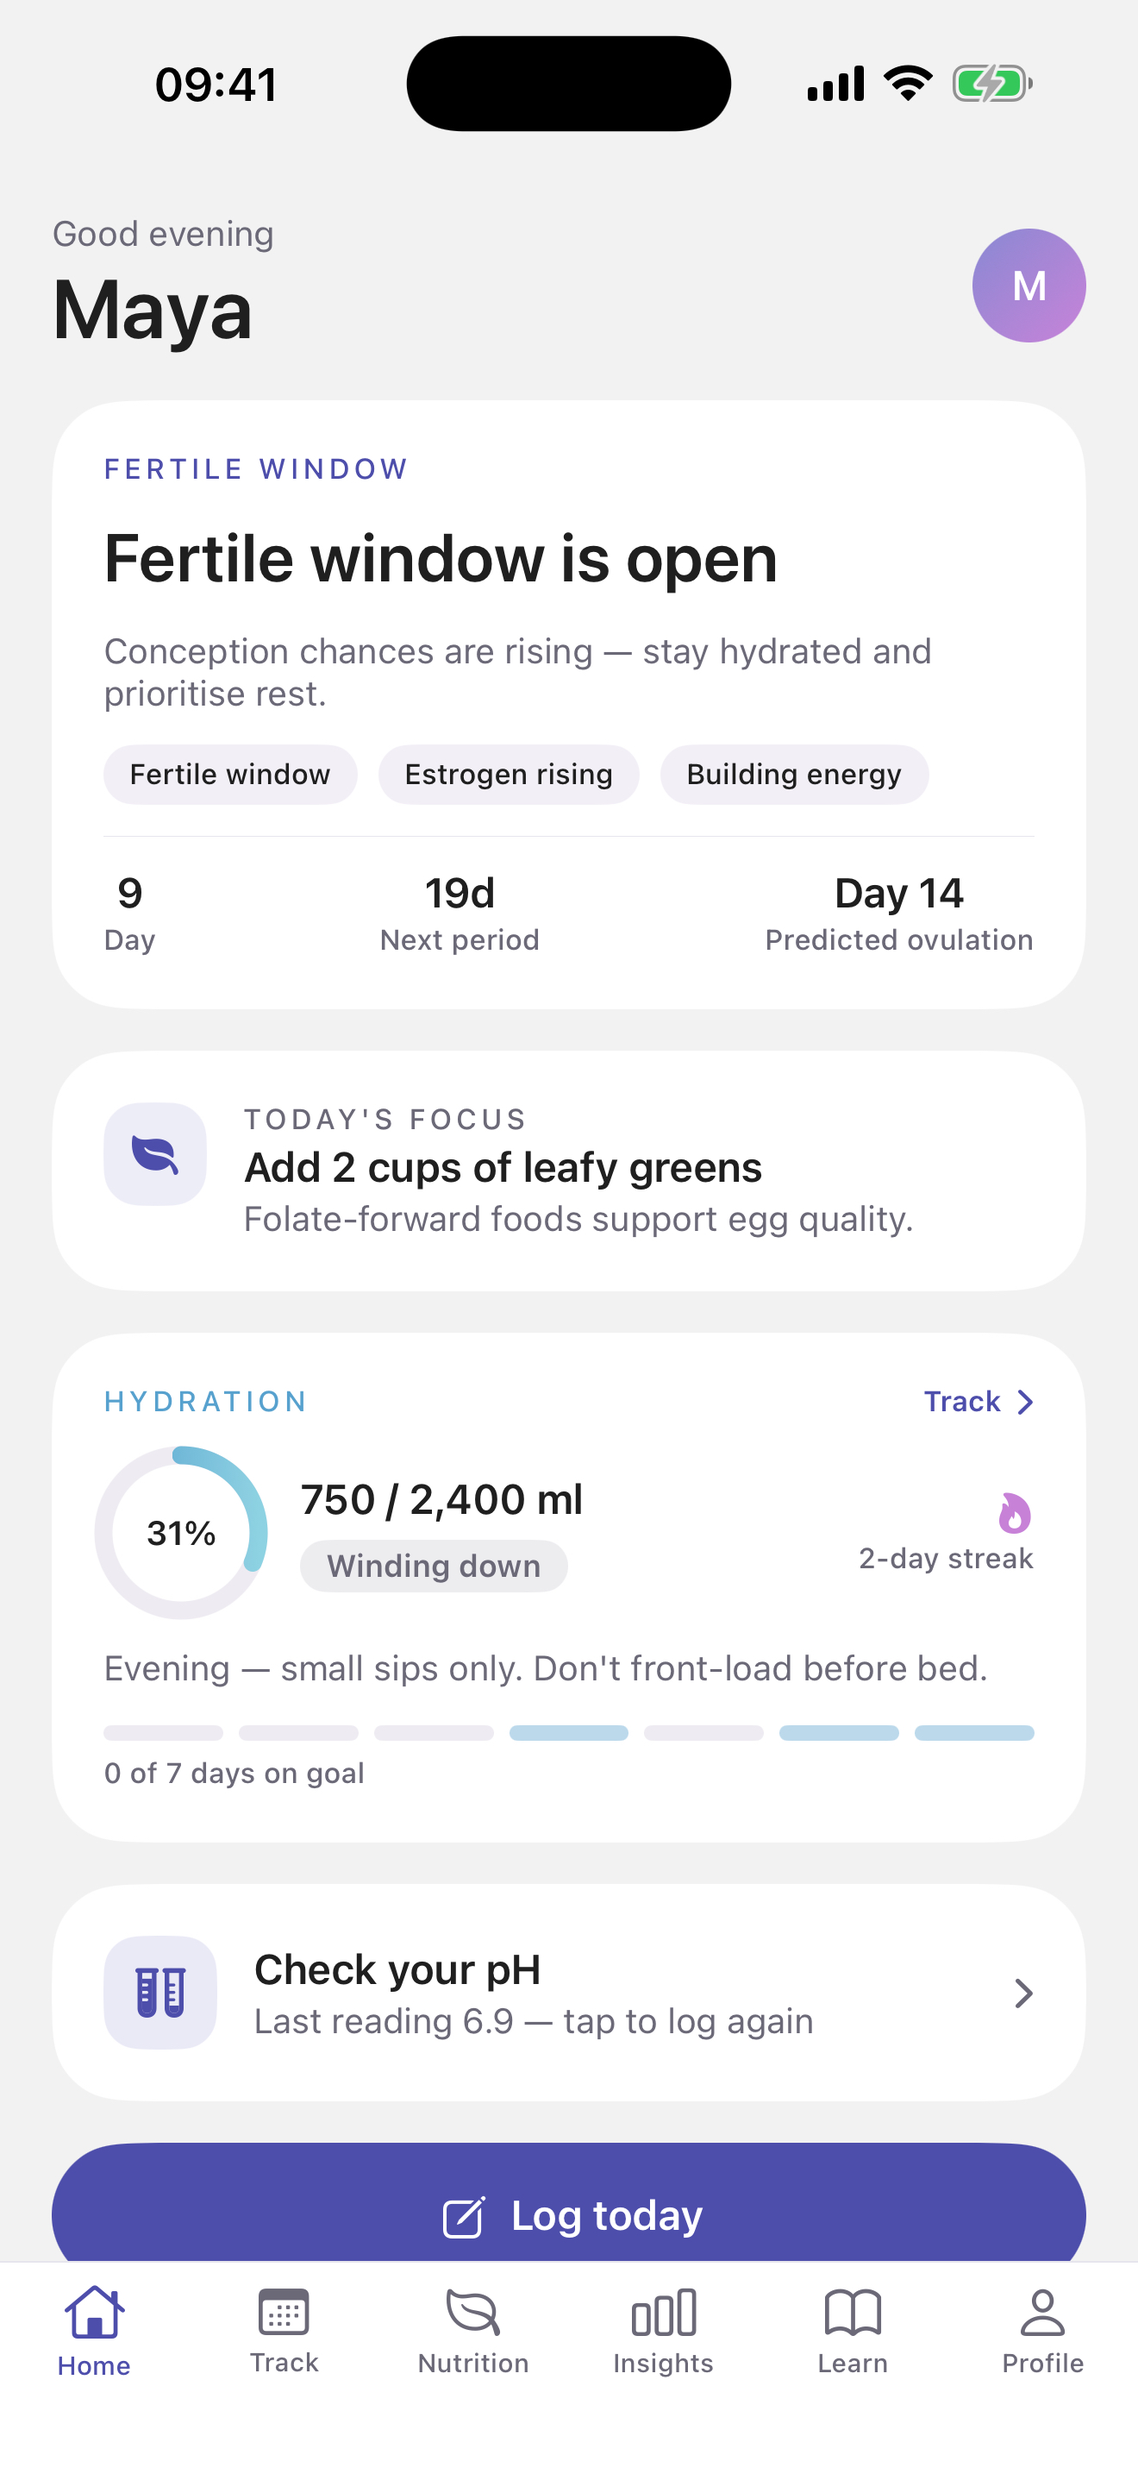
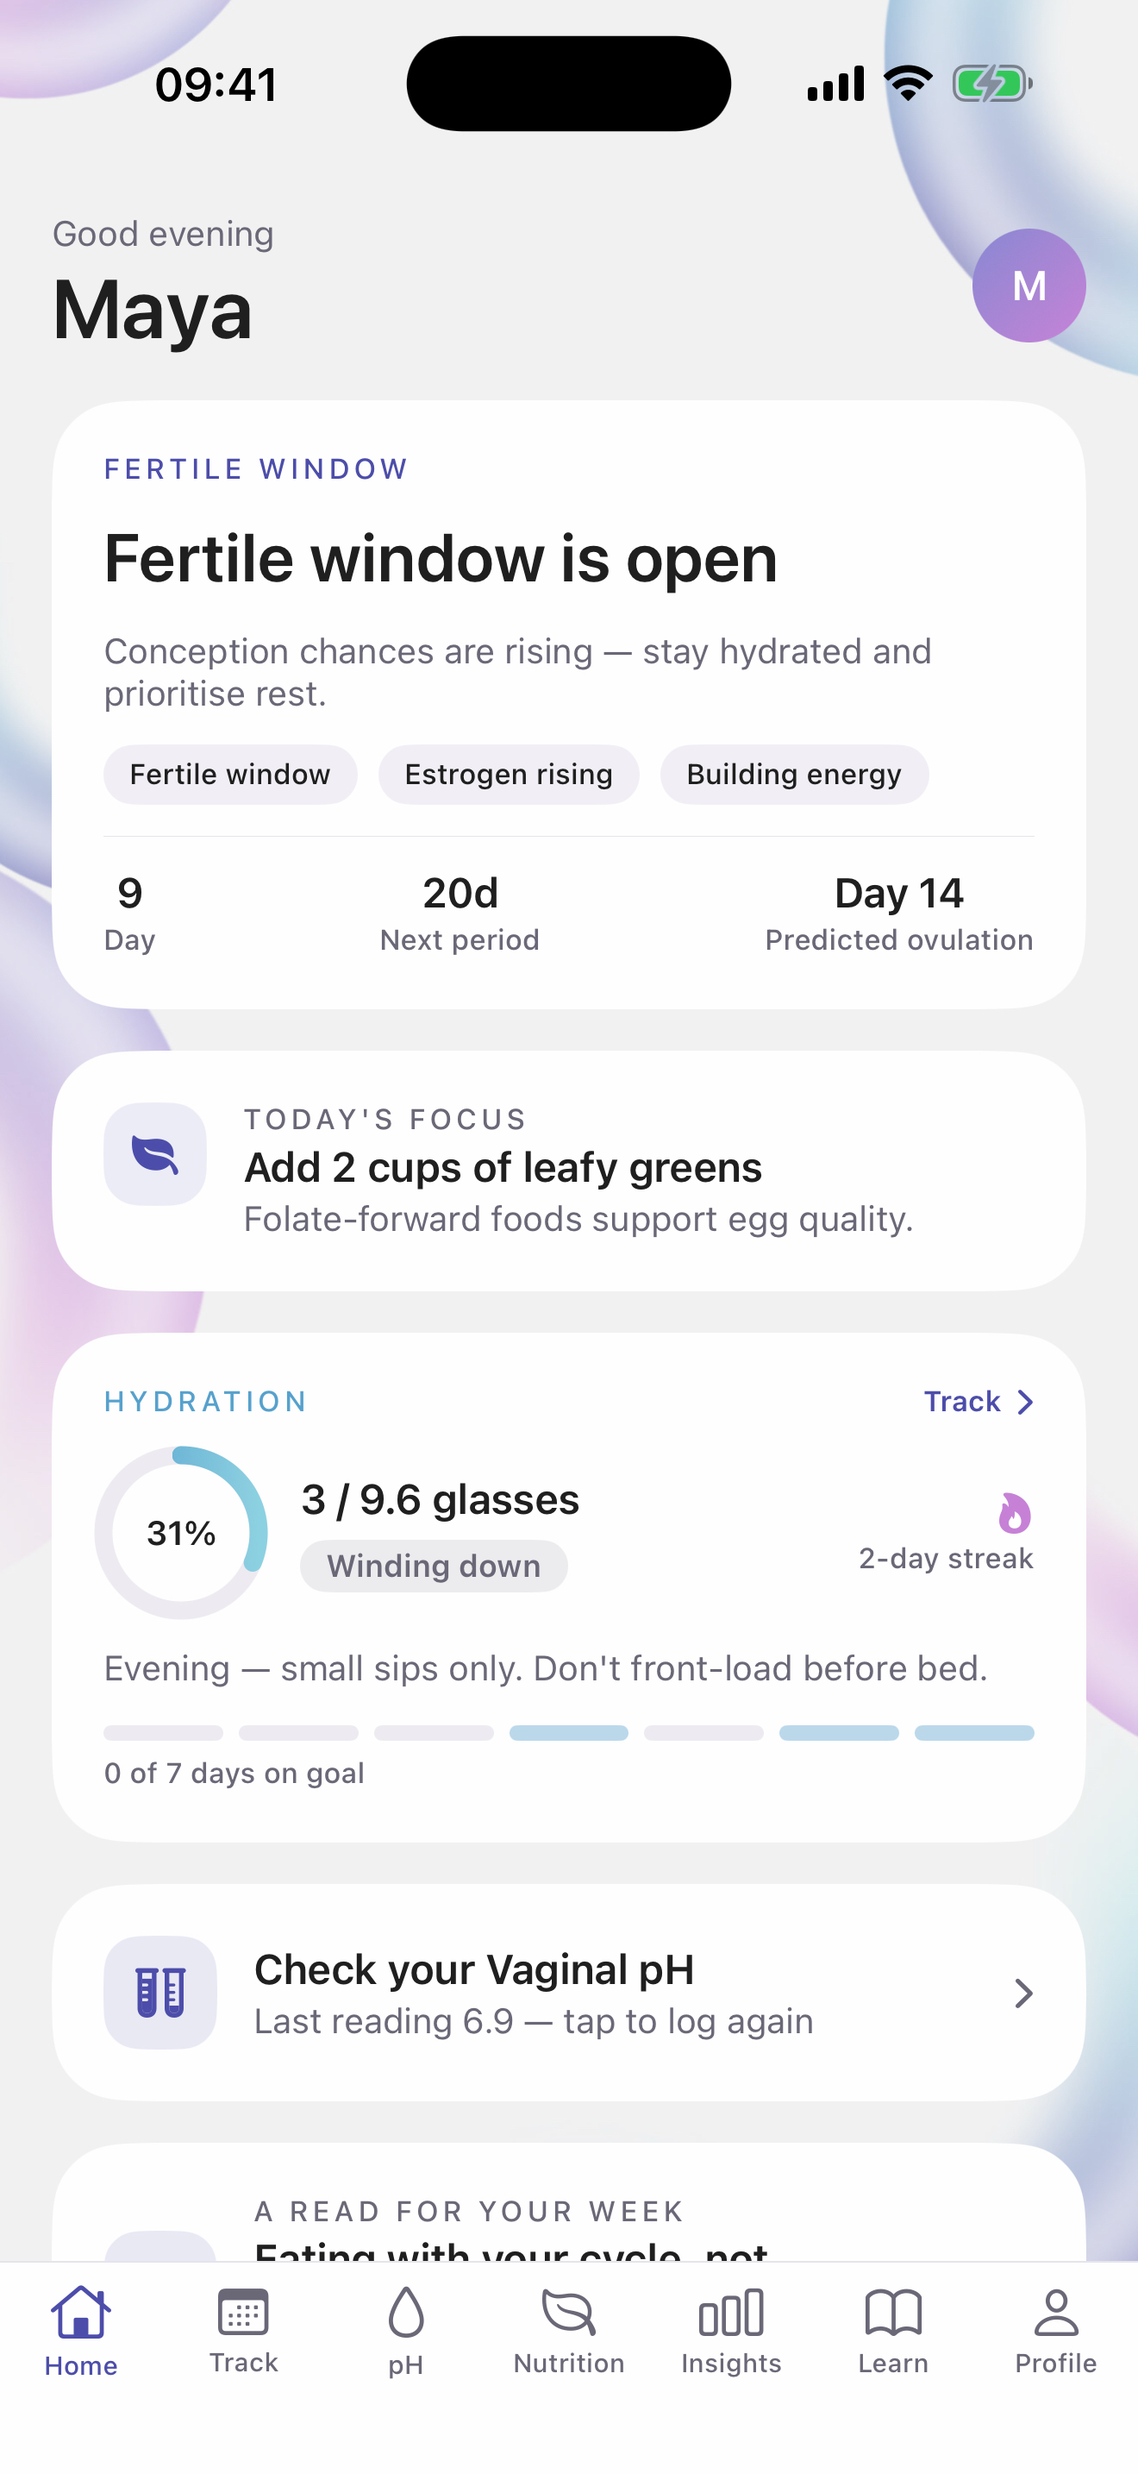
Replace the July screenshots with seven from the build 21 tree
The six in docs/appstore_screenshots/ were taken on 18 July, before the pH tab,
the light default, the egg artwork, the seven-tab bar and the sign-in gate. They
were the right size and nothing flagged them, which is the problem: a stale
screenshot passes every mechanical check and only fails in front of a reviewer
comparing it to the binary.

Seven now, not six. Captured from a Debug simulator build of this tree on iPhone
17 Pro Max, one launch per tab through -uiTestSeed YES -uiTestTab N. That is the
path AppContainer.uiTestSeeded() exists for: it wipes defaults, grants consent,
signs in as the fictional Maya and seeds a cycle, two daily logs and three pH
readings, so no real account reaches a public frame. Status bar overridden to
9:41. Alpha flattened through scripts/prepare_store_screenshots.sh, because
simulator PNGs carry a channel App Store Connect will not take.

The numbering shifted and it will trip someone: pH is new at position 3, so any
older reference to "screenshot 3" meant Nutrition.

Each frame was opened and looked at rather than size-checked. Profile turned out
to be the useful one, showing the build 21 consent block in place, so the listing
can demonstrate the privacy control instead of asserting it.

Two things were seen and deliberately not fixed, since either would kill the
archive: the Insights headline says "empowered", which the house style bans, and
em dashes sit as connectors on four of the seven screens. Both belong in a
[…]

diff --git a/docs/LAUNCH_READINESS.md b/docs/LAUNCH_READINESS.md
@@ -133,17 +133,36 @@ Live at **v10 ACTIVE**, bundle byte-identical to the repo, verified by `supabase
 **3b. ~~Deploy the three invite Edge Function fixes.~~ DONE, 17 Aug 2026.**
 `accept_partner_invite` (v8 → **v9**), `decline_partner_invite` (v6 → **v7**) and `unlink_partner` (v7 → **v8**) are deployed to production, all ACTIVE, all `verify_jwt=true`, each deployed on its own with the diff confirmed first and the deployed source downloaded and diffed byte-for-byte against the repo afterwards. Production no longer runs the versions where the invite ownership check failed to fire for an account with no email, or where unlinking could sever a third party's link. Full evidence in §8.6. No other function was redeployed.
 
-**4. Verify the password-reset email end to end.** *One live check — I cannot do it from the repo.*
-`resetPasswordForEmail` is called with **no `redirectTo`**, and the app has no recovery deep-link handler and no set-new-password screen. The email therefore lands on whatever the Supabase project's **Site URL** is — which is outside this repo. Meanwhile the app tells her *"Check your inbox."*
-**→ Trigger a real password reset against production and follow the email.** Tell me what you see. If it does not land somewhere that works, every woman who forgets her password is locked out, and I will build the in-app recovery screen.
+**4. ~~Verify the password-reset email end to end.~~ CLOSED IN CODE, 18 Aug 2026 — this entry was describing build 19.**
+All three gaps it named are filled in build 21, checked against the source rather than assumed:
 
-**5. ~~Bump the build number.~~ DONE, 17 Aug 2026.**
-`project.yml` reads `CURRENT_PROJECT_VERSION: "19"` and `MARKETING_VERSION: "1.2.0"`. `xcodegen` was run: `Genesyx.xcodeproj/project.pbxproj` carries `CURRENT_PROJECT_VERSION = 19` in both configurations with no `18` remaining, and it is committed and clean. The release commit is `fb37e2a`. The staging advice below is kept because it still applies to every future release commit.
+| What this blocker said was missing | Where it is now |
+| --- | --- |
+| `resetPasswordForEmail` called with no `redirectTo` | `SupabaseBackend.swift:71` — `redirectTo: DeepLink.passwordRecoveryURL` |
+| No recovery deep-link handler | `DeepLink.swift:75` declares `genesyx://reset-password`; matched at line 85 |
+| No set-new-password screen | `App/Genesyx/UI/Auth/ResetPasswordView.swift`; `SessionRepository.swift:340` redeems the link and holds her on that screen |
 
-**5b. The release candidate is archived.** *Found 17 Aug 20:00 — `to do list.md` still says "No new archive", and that line is spent.*
-`~/Library/Developer/Xcode/Archives/2026-08-17/Genesyx-1.2.0-b19.xcarchive`, created **12:48 GMT**, `CFBundleShortVersionString 1.2.0`, `CFBundleVersion 19`, `com.genesyx.app`, arm64, signed **Apple Distribution: SF MEDIA & PR LTD (M5L3MM75SG)**.
-**It is a faithful build of the release commit.** `fb37e2a` landed at 12:29, the archive was cut at 12:48, and the only two commits since (`b78eee6` at 16:36, `b6907c5` at 16:50) touched one Supabase function file and one document. No `App/` or `Sources/` file has changed since the archive, so it does not need recutting. The three Edge Function fixes deployed later this evening are server-side and reach this build without a new binary.
-**What is not established from here:** whether it has been uploaded to TestFlight or App Store Connect. That needs the browser. Note also that the signing identity is *SF MEDIA & PR LTD* while the live privacy policy names *Genesyx Ltd* as data controller — those are allowed to differ, but the App Store listing and the policy should be checked to say the same thing as each other.
+The server half was settled on 17 August (`84c8411`): `genesyx://reset-password` is on the Supabase redirect allow-list, so the email no longer falls back to the Site URL. That fallback is the exact bug build 20 was cut to fix, and 21 carries the fix.
+
+**One live confirmation is still owed, and it has moved to #6 rather than standing here** — following a real reset email through to a changed password on a physical device. The code path is complete and the allow-list is correct, so that is confirmation rather than investigation, and it wants the same device session as the Apple sign-in check.
+
+*Struck through rather than deleted: two other documents still cite this as outstanding.*
+
+**5. ~~Bump the build number.~~ DONE, 18 Aug 2026 — now at build 21, not 19.**
+`project.yml` reads `CURRENT_PROJECT_VERSION: "21"` and `MARKETING_VERSION: "1.2.0"`, and `xcodegen` was run so `Genesyx.xcodeproj/project.pbxproj` carries 21 in both configurations. **Build 20 is void for submission** — it predates Article 9 consent capture, Apple token revocation on delete, and the gated pregnancy placeholder, and the consent capture is the one thing both Apple review and the ICO would look for. The reasoning for each number from 13 onward is kept in `project.yml` itself. The staging advice below still applies to every future release commit.
+
+**5b. The release candidate is archived, committed and tagged.** *Updated 18 Aug 2026 — supersedes the build 19 entry.*
+`~/Desktop/Genesyx-b21.xcarchive`, created **18 Aug 11:04:34 UTC**, `CFBundleShortVersionString 1.2.0`, `CFBundleVersion 21`, `com.genesyx.app`, signed **Apple Distribution: SF MEDIA & PR LTD (M5L3MM75SG)**.
+
+**The binary maps to a known commit, which is the whole point of the tag.** The archive was cut from the tree at `93f5a13`, tagged **`v1.2.0-b21`**. One commit sits on top of the tag, `9440534`, and it touches this document only — no `App/`, `Sources/` or `Tests/` file has changed since the archive, so it does not need recutting. Confirmed today by diffing the working tree against the tag: the only non-doc difference is one staged asset file (see the tree note below).
+
+**What is still not established from here:** whether build 21 has been uploaded to TestFlight or App Store Connect. Nothing has been exported locally — there is no `~/Desktop/Genesyx-b21-export` directory — so any upload would have gone through Organizer. **Check App Store Connect for an existing build 21 before uploading:** `ExportOptions.plist` sets `manageAppVersionAndBuildNumber = false`, so a duplicate is rejected outright and recovering costs a bump to 22, an `xcodegen generate` and a fresh archive, voiding the current one.
+
+**A trap in the export path, recorded because it nearly cost a build.** `ExportOptions.plist` has **no `destination` key**, and `xcodebuild -exportArchive` defaults to `destination=export`. `method: app-store` governs how the `.ipa` is signed and packaged, *not* where it goes. Running an export against this plist therefore writes a signed `.ipa` to disk, uploads nothing, and exits 0 — indistinguishable from a successful submission unless you check App Store Connect. Uploading needs either `destination: upload` added to a separate plist, or the Organizer route.
+
+Note also that the signing identity is *SF MEDIA & PR LTD* while the live privacy policy names *Genesyx Ltd* as data controller — those are allowed to differ, but the App Store listing and the policy should be checked to say the same thing as each other.
+
+**Working tree reconciled, 18 Aug 2026.** Five stray uncommitted edits — to `LearnContent.swift`, `CycleContent.swift`, `PhCopy.swift`, `PhInsightLogicTests.swift` and `App_Inventory.md` — were reverted by hand. One of them had rewritten a plain-English Learn callout into dense clinical register; it passed the banned-phrase guards, which is worth knowing, because those guards catch unsafe claims and not unreadable ones. The only change now standing is a staged `brand_lockup/Contents.json`, an Xcode asset reformat, **deliberately kept**. None of the five was in build 21 — the archive predates them all, so the binary was never affected.
 **The thing to know before any release commit:** `graphify-out/` is **tracked and not in `.gitignore`** — it accounts for the overwhelming majority of changed entries at any given moment, so a bare `git add -A` would put more generated cache than product into the commit. `docs/assets/` (a duplicate copy of the guide PDF) is deliberately excluded too. Neither is a mistake to correct: `graphify-out/` is committed at the client's explicit instruction, so do not add it to `.gitignore` and do not `git rm --cached` it.
 
 *The 47-uncommitted-changes warning that stood here is spent — those changes were committed as `fb37e2a`. The staging discipline it argued for is not.*
@@ -159,14 +178,27 @@ git status --short          # expect exactly 47 staged, none under graphify-out/
 
 `project.pbxproj` is named explicitly because it is generated by `xcodegen` but **must** be committed — it is what Xcode actually builds from. Regenerate it *before* staging, since the build-number bump only reaches the build through `xcodegen generate`.
 
-**6. Real-device pass.** *Yours — needs a physical iPhone.*
-Email, Google and Apple sign-in; then delete the account. The simulator cannot prove Sign in with Apple. Your own docs say both must be tested on a real device before submission, and this is currently deferred because there is no device.
+**6. Real-device pass.** *Yours — needs a physical iPhone. Now carries three checks, not two.*
+Email, Google and Apple sign-in; then delete the account. The simulator cannot prove Sign in with Apple. Your own docs say both must be tested on a real device before submission, and this is deferred because there is no device.
+
+Two things joined this item on 18 August:
+
+- **The password-reset round trip**, moved down from #4 now that the code path is complete: request a reset, open the email on the device, follow the link into `ResetPasswordView`, set a new password, sign in with it.
+- **Deleting an Apple-signed account is now the only way to exercise `APPLE_REVOKE_REQUIRED=true` against a real Apple grant.** With the flag on, a delete that cannot revoke is refused outright. That refusal is the correct and deliberate behaviour (§9.2), but it has never been observed against Apple's live endpoint — only reasoned about. Better to see it here than to have the first observation be a stranger's failed deletion.
 
 **7. App Store Connect data entry.** *Yours, all off-code.*
 Privacy labels · age rating questionnaire · regulated-medical-device declaration · DSA trader status · Privacy Policy URL · content rights & encryption · **a demo account in the Review Notes** (the app is behind an auth gate — without one, review will be rejected on Guideline 2.1 without ever seeing the app).
 
-**8. Fresh screenshots from the release candidate.** *Yours.*
-The currently uploaded set predates the auth gate and the partner-flag change. Your two docs disagree about whether this is done — `APP_STORE_SUBMISSION.md` ticks it, `FINAL_APP_STORE_RELEASE_CHECKLIST.md` says take new ones. **The checklist is right; treat the tick as void.**
+**8. ~~Fresh screenshots from the release candidate.~~ DONE, 18 August 2026 — seven captures replace the six.**
+`docs/appstore_screenshots/` now holds **1-Home, 2-Track, 3-pH, 4-Nutrition, 5-Insights, 6-Learn, 7-Profile**, all 1320 × 2868, all alpha-flattened by `scripts/prepare_store_screenshots.sh`. The July set is deleted, and the numbering has shifted because pH is now third — anything referring to "screenshot 3" from the old set means Nutrition, not pH.
+
+Captured from a Debug simulator build of the build 21 tree on iPhone 17 Pro Max, launched per tab with `-uiTestSeed YES -uiTestTab N`. That path is the one `AppContainer.uiTestSeeded()` was written for: it wipes defaults, grants consent, signs in as the fictional **Maya / maya@example.com**, and seeds a cycle, two daily logs and three pH readings. No real account appears in any frame. The status bar is overridden to 9:41, full bars, charged.
+
+**These are a Debug build, not the signed archive** — the pixels are identical because no `#if DEBUG` branch changes layout, but the distinction is the same one that hid the broken Release build on 13 August, so it is worth stating rather than glossing.
+
+Each of the seven was opened and looked at, not merely size-checked. They show the seven-tab bar, the light default, the new egg artwork, and on Profile the build 21 consent block reading *"Collection is on · You agreed on 18 Aug 2026 · Withdraw consent"* — which is a useful frame to have in the listing, since it shows the privacy control rather than describing it.
+
+*Two docs disagreed about whether this was ever done: `APP_STORE_SUBMISSION.md` ticked it, `FINAL_APP_STORE_RELEASE_CHECKLIST.md` said take new ones. The checklist was right, and the point is now moot.*
 
 ### 🟠 Content — needs your clinician, not an engineer
 
@@ -1048,7 +1080,7 @@ done, performed in the client's own terminal and dashboard rather than from this
 | Five Apple secrets set | ✅ Done | `supabase secrets list`; `.p8` never left the secret manager |
 | `delete_account` deployed | ✅ Done | Client-confirmed |
 | `APPLE_REVOKE_REQUIRED=true` | ✅ Done, kept on deliberately | Early by the documented order; reviewed and accepted — §9.2 |
-| `anon` grant on `consent_events` | 🟠 Migration written, not applied | `20260818b_consent_events_grant_cleanup.sql`; RLS covers it meanwhile |
+| `anon` grant on `consent_events` | 🟠 Migration written, **handed off 18 Aug, not yet confirmed applied** | `20260818b_consent_events_grant_cleanup.sql`; RLS covers it meanwhile. Apply and verify it in the Dashboard SQL Editor, never `db push`. It is applied only when V4 reads **401** where it read 200 |
 
 Probe shape, so a future re-run matches: `GET {SUPABASE_URL}/rest/v1/{table}?select=id&limit=0` with
 `apikey` and `Authorization: Bearer` both set to the public publishable key, status code read and the

diff --git a/docs/TODAY_2026-08-18_LUCAS_ACTION_LIST.md b/docs/TODAY_2026-08-18_LUCAS_ACTION_LIST.md
@@ -126,13 +126,14 @@ yours. Copy for most fields is already drafted in **`docs/APP_STORE_LISTING.md`*
   straight rejection.
 - Category: **Health & Fitness**.
 
-### 4b · Screenshots
-The six in `docs/appstore_screenshots/` are the right size (**1320 × 2868**) but they were taken on
-**18 July** — before the pH tab, the light-mode default, the egg artwork, the seven-tab bar and the
-sign-in gate. **They show an app that no longer exists.** Do not upload them.
+### 4b · Screenshots — ✅ **DONE, this is off your list**
+`docs/appstore_screenshots/` now holds **seven** fresh captures from the build 21 tree, all
+1320 × 2868 and alpha-flattened: 1-Home, 2-Track, **3-pH**, 4-Nutrition, 5-Insights, 6-Learn,
+7-Profile. The July six are deleted. Upload these.
 
-👉 **I can regenerate these for you from the simulator in about 20 minutes — just say the word.**
-That takes this whole sub-task off your list.
+They show the app as it actually is now: seven tabs, light default, egg artwork, and the consent
+control on Profile. The account in them is the fictional Maya, so nothing real is exposed.
+Note the numbering shifted — pH is new at position 3, so old "screenshot 3" meant Nutrition.
 
 ### 4c · App Privacy — answer from the real data flows, not marketing
 We collect, **linked to identity**: health & fitness data (cycle, symptoms, pH, intimacy), contact
@@ -266,7 +267,7 @@ Quick answers; each one changes what build 21 contains.
 | "Article 9 = B" | Consent screen, `consented_at`, Android parity, tests |
 | "Apple secrets are in" | Implement `/auth/revoke` in `delete_account`, deploy, verify version **and** bundle hash |
 | G3/G4/G5 answers | The copy and ordering fixes |
-| "Regenerate screenshots" | Six fresh 1320 × 2868 captures from the release candidate |
+| ~~"Regenerate screenshots"~~ | ✅ Done 18 Aug — seven captures, see 4b |
 | Device pass results | Write them up as evidence, or fix what failed |
 
 ⚠ **Until you answer, I will not touch `App/` or `Sources/`.** The source tree is byte-identical to
